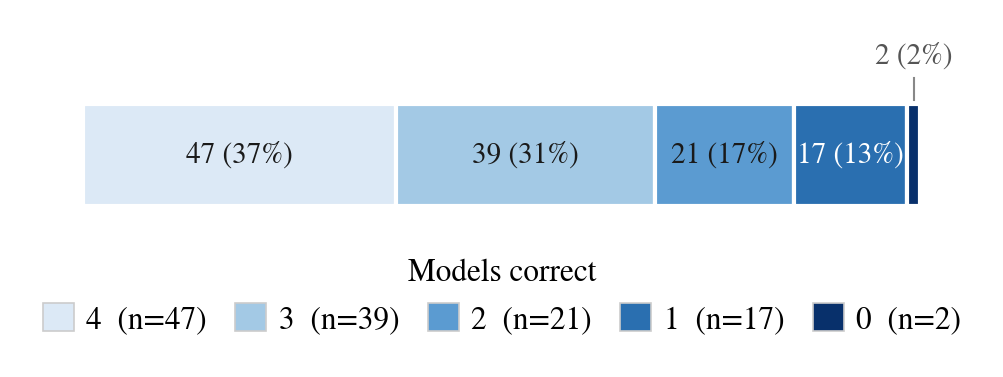
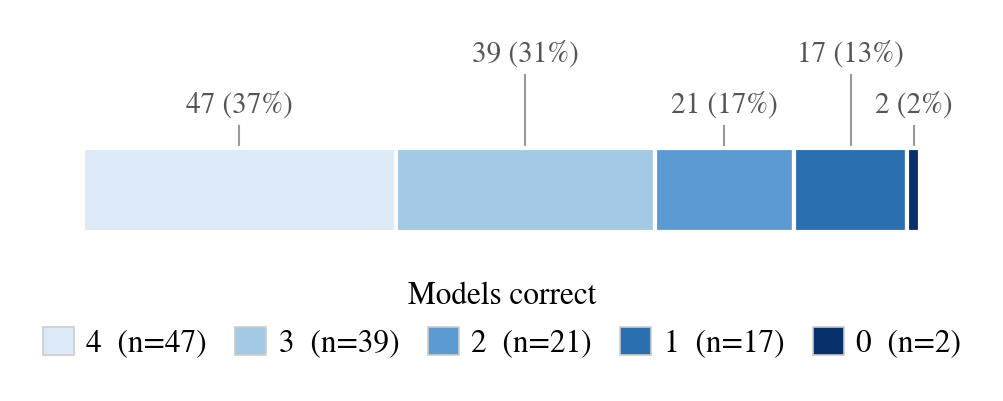
Move segment labels above the bar with leader lines

diff --git a/scripts/make_paper_assets.py b/scripts/make_paper_assets.py
@@ -256,25 +256,23 @@ def fig_category_overall():
 
 def fig_difficulty_stackbar(dist, total):
     """Soru-zorluk dagilimi: tek yatay %100 stacked bar."""
-    fig, ax = plt.subplots(figsize=(3.6, 0.85))
+    fig, ax = plt.subplots(figsize=(3.6, 0.95))
     left = 0.0
-    for k in sorted(dist, reverse=True):  # 4 -> 0
+    for i, k in enumerate(sorted(dist, reverse=True)):  # 4 -> 0
         v = dist[k]
         ax.barh(0, v, left=left, height=0.5, color=DIFFICULTY_RAMP[k],
                 edgecolor="white", linewidth=1.0, zorder=3)
         cx = left + v / 2
         lab = f"{v} ({100.0 * v / total:.0f}%)"
-        if v >= 10:
-            ax.text(cx, 0, lab, ha="center", va="center", fontsize=7,
-                    color="white" if k <= 1 else "#1A1A1A")
-        else:
-            ax.plot([cx, cx], [0.27, 0.38], color="#888888", linewidth=0.5)
-            ax.text(cx, 0.42, lab, ha="center", va="bottom",
-                    fontsize=7, color=MUTED)
+        y_lab = 0.42 if i % 2 == 0 else 0.72  # dar komsular cakismasin
+        ax.plot([cx, cx], [0.27, y_lab - 0.04], color="#999999",
+                linewidth=0.5, zorder=2)
+        ax.text(cx, y_lab, lab, ha="center", va="bottom",
+                fontsize=7, color=MUTED)
         left += v
 
     ax.set_xlim(0, total)
-    ax.set_ylim(-0.35, 0.62)
+    ax.set_ylim(-0.35, 0.95)
     ax.set_yticks([])
     ax.set_xticks([])
     ax.spines["left"].set_visible(False)
